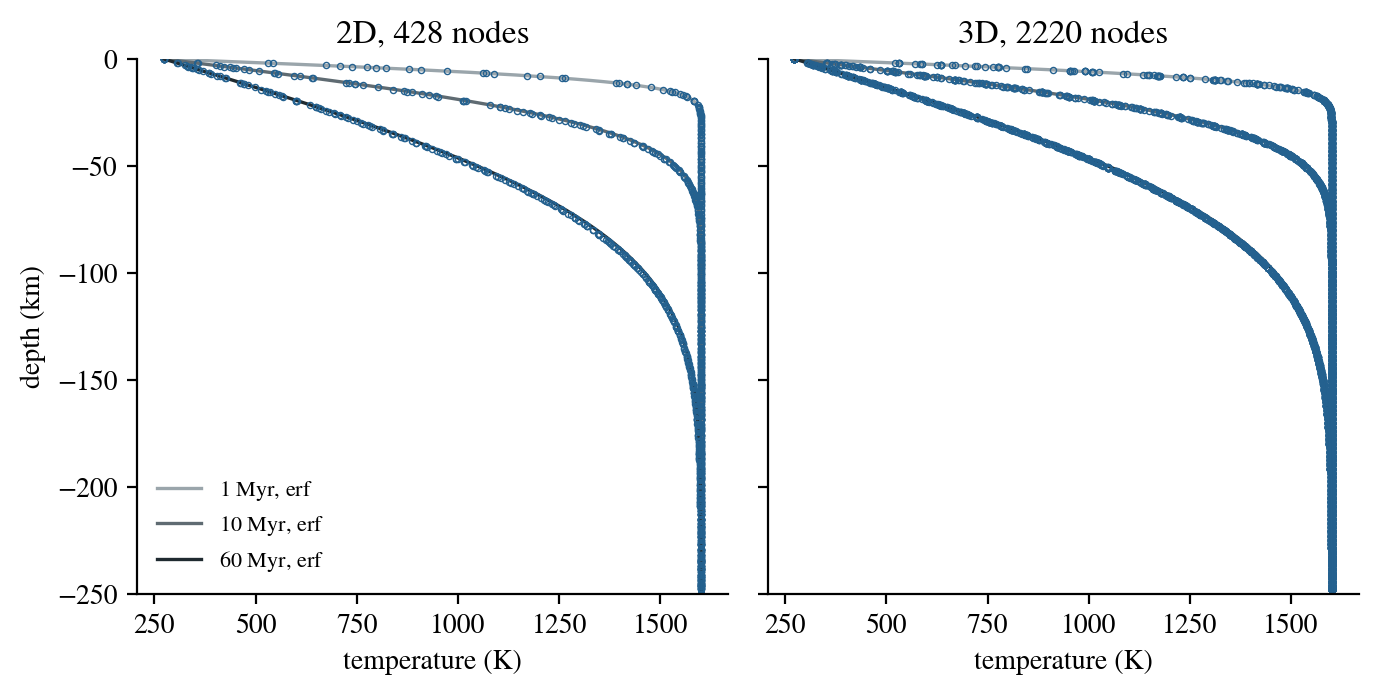
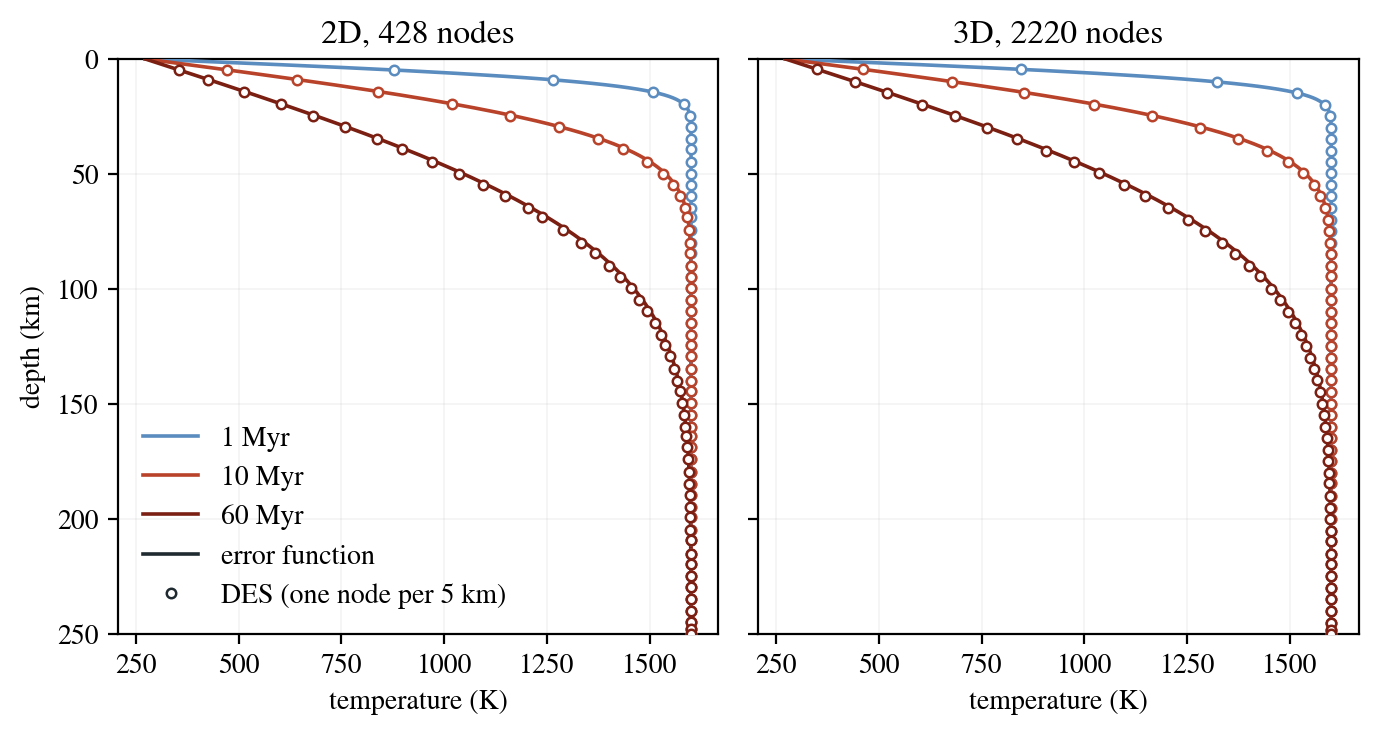
docs: redraw the half-space cooling and localization figures
Cooling: depth increases downward, one colour per plate age, and one DES
node per 5 km so the error function stays visible under the 3D nodes.
Localization: the manual's type and colours, lettered panels, whole-km
ticks. Same runs and numbers as before.

diff --git a/docs/benchmarks/heat/half-space-cooling.md b/docs/benchmarks/heat/half-space-cooling.md
@@ -57,7 +57,7 @@ error function; it was written for Python 2 and the earlier output reader.
 
 ## What to look for
 
-![Temperature against depth at 1, 10 and 60 Myr in 2D and 3D: DES nodes (circles) and the error function (lines)](../img/half-space-cooling.png)
+![Temperature against depth at 1, 10 and 60 Myr in 2D and 3D: the error function (lines) and DES nodes, one per 5 km of depth (circles)](../img/half-space-cooling.png)
 
 | Plate age | Largest difference, 2D | Largest difference, 3D | With `mat.alpha = [0]`, 2D | With `mat.alpha = [0]`, 3D |
 | --- | ---: | ---: | ---: | ---: |
